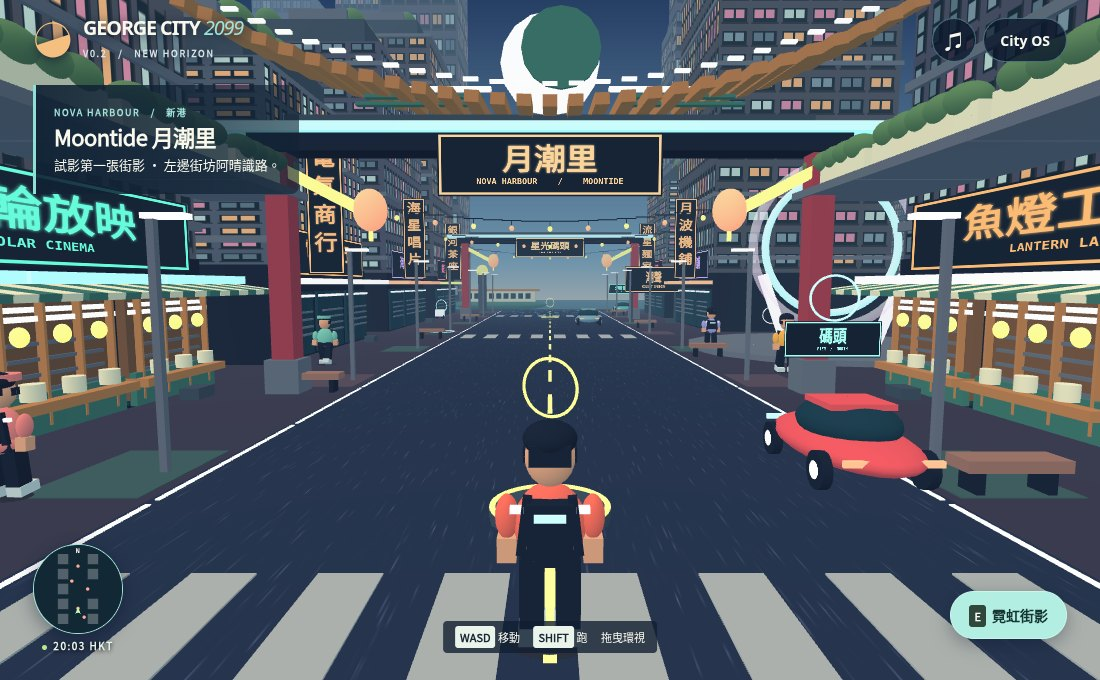
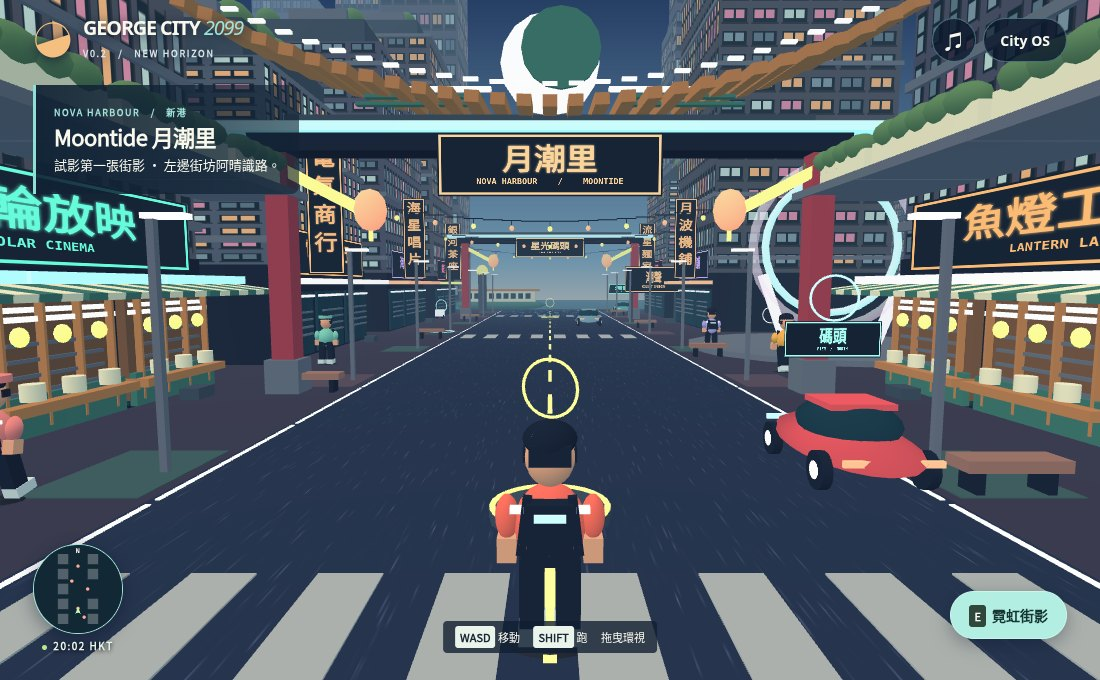
Instance moving props and trim tessellation after street profiling

diff --git a/src/view.ts b/src/view.ts
@@ -9,6 +9,7 @@ import {DynamicTexture} from '@babylonjs/core/Materials/Textures/dynamicTexture'
 import {MeshBuilder} from '@babylonjs/core/Meshes/meshBuilder'
 import {TransformNode} from '@babylonjs/core/Meshes/transformNode'
 import '@babylonjs/core/Meshes/thinInstanceMesh'
+import '@babylonjs/core/Meshes/instancedMesh'
 import '@babylonjs/core/Materials/Textures/Loaders/tgaTextureLoader'
 import {blocks, starts, sites, park, shop, garage} from './world'
 export {Vector3}
@@ -32,10 +33,10 @@ export function createView(canvas:HTMLCanvasElement){
  const ink=mat('#172338'),wall=mat('#344659'),ledge=mat('#586578'),glass=mat('#19384b'),cream=mat('#ffe0a7',true),pink=mat('#c66e54',true),mint=mat('#72dcd4',true),gold=mat('#ffae56',true),violet=mat('#ab85ff',true)
  const accents=[gold,mint,cream,pink]
  type Kind='box'|'sphere'|'tube'|'ring'
- function shape(kind:Kind,name:string){
-  if(kind==='sphere')return MeshBuilder.CreateSphere(name,{diameter:1,segments:10},scene)
+ function shape(kind:Kind,name:string,staticBatch=false){
+  if(kind==='sphere')return MeshBuilder.CreateSphere(name,{diameter:1,segments:staticBatch?4:8},scene)
   if(kind==='tube')return MeshBuilder.CreateCylinder(name,{height:1,diameter:1,tessellation:16},scene)
-  if(kind==='ring')return MeshBuilder.CreateTorus(name,{diameter:1,thickness:.055,tessellation:48},scene)
+  if(kind==='ring')return MeshBuilder.CreateTorus(name,{diameter:1,thickness:.055,tessellation:28},scene)
   return MeshBuilder.CreateBox(name,{size:1},scene)
  }
  const batches=new Map<string,{kind:Kind;m:StandardMaterial;values:number[]}>()
@@ -46,8 +47,17 @@ export function createView(canvas:HTMLCanvasElement){
   a.values.push(...Matrix.Compose(new Vector3(w,h,d),Quaternion.FromEulerAngles(rx,ry,rz),new Vector3(x,y,z)).asArray())
  }
  const box=(x:number,y:number,z:number,w:number,h:number,d:number,m:StandardMaterial)=>staticPart('box',x,y,z,w,h,d,m)
- function part(parent:TransformNode,kind:Kind,x:number,y:number,z:number,w:number,h:number,d:number,m:StandardMaterial){
-  const mesh=shape(kind,'detail');mesh.material=m;mesh.parent=parent;mesh.position.set(x,y,z);mesh.scaling.set(w,h,d);return mesh
+ // Moving rigid details share geometry and material; outfit pieces keep independent materials.
+ const sources=new Map<string,ReturnType<typeof shape>>()
+ function part(parent:TransformNode,kind:Kind,x:number,y:number,z:number,w:number,h:number,d:number,m:StandardMaterial,wearable=false){
+  const key=kind+m.uniqueId
+  let source=sources.get(key)
+  if(!source||wearable){
+   source=shape(kind,'detail');source.material=m
+   if(!wearable){source.isVisible=false;sources.set(key,source)}
+  }
+  const mesh=wearable?source:source.createInstance('detail instance')
+  mesh.parent=parent;mesh.position.set(x,y,z);mesh.scaling.set(w,h,d);return mesh
  }
  let seed=2099
  function random(){seed=(Math.imul(1664525,seed)+1013904223)>>>0;return seed/4294967296}
@@ -205,13 +215,13 @@ export function createView(canvas:HTMLCanvasElement){
  }
  for(const [p,s] of [[shop,'夜市裁縫'],[garage,'港灣車房']] as const){sign(p.x,2.7,p.z,3,1.1,s,'OPEN ALL NIGHT','#83ffe0')}
  for(const {kind,m,values} of batches.values()){
-  const mesh=shape(kind,'city');mesh.material=m;mesh.thinInstanceSetBuffer('matrix',new Float32Array(values),16,true);mesh.freezeWorldMatrix()
+  const mesh=shape(kind,'city',true);mesh.material=m;mesh.thinInstanceSetBuffer('matrix',new Float32Array(values),16,true);mesh.freezeWorldMatrix()
  }
  function person(color:string,variant=0){
   const root=new TransformNode('walker',scene),jacket=mat(color)
   part(root,'sphere',0,.025,0,.78,.032,.52,mat('#252c3a'))
   part(root,'box',0,.87,0,.5,.15,.34,ink)
-  const torso=part(root,'sphere',0,1.12,0,.64,.76,.42,jacket)
+  const torso=part(root,'sphere',0,1.12,0,.64,.76,.42,jacket,variant===0)
   root.scaling.setAll([1,.94,1.06,.98][variant%4]);
   if(variant%2)part(root,'tube',0,1.96,.045,.52,.11,.54,jacket)
   if(variant%3===1)part(root,'sphere',0,.91,0,.66,.36,.47,jacket)
@@ -225,7 +235,7 @@ export function createView(canvas:HTMLCanvasElement){
   for(const side of [-1,1])part(root,'box',side*.205,1.74,.045,.065,.12,.14,ink)
   const limbs=[-1,1].map(s=>{
    const leg=new TransformNode('hip',scene);leg.parent=root;leg.position.set(s*.16,.85,0);part(leg,'box',0,-.32,0,.22,.63,.25,ink);part(leg,'box',0,-.72,.06,.24,.17,.36,mat('#b7cbd0'))
-   const arm=new TransformNode('shoulder',scene);arm.parent=root;arm.position.set(s*.38,1.38,0);const sleeve=part(arm,'sphere',0,-.19,0,.21,.4,.24,jacket);part(arm,'box',0,-.47,0,.17,.22,.18,mat('#cd997f'))
+   const arm=new TransformNode('shoulder',scene);arm.parent=root;arm.position.set(s*.38,1.38,0);const sleeve=part(arm,'sphere',0,-.19,0,.21,.4,.24,jacket,variant===0);part(arm,'box',0,-.47,0,.17,.22,.18,mat('#cd997f'))
    return {leg,arm,sleeve}
   })
   let stride=0

diff --git a/docs/NEW-HORIZON.md b/docs/NEW-HORIZON.md
@@ -42,6 +42,15 @@ Fresh saves at the south gate, default camera, Chromium with SwiftShader. Moving
 
 The merged foundation at f81ca3d passed its main build. Its PR runner failed installing Playwright FFmpeg on Ubuntu 26.04. The V0.2 PR workflow pins Ubuntu 24.04. Local npm ci, eight simulation tests, strict TypeScript and the production Vite build passed.
 
-The main entry grew from 309.52 to 311.12 kB gzip. Vite still flags the Babylon entry chunk. The new street furniture, roof and ferry use the existing static instance batches. Four distinct authored residents replace eight walkers that repeated the same four identities. Adaptive resolution remains active. No physical device or hardware GPU measurements are available.
+The main entry grew from 309.52 to 311.23 kB gzip. Vite still flags the Babylon entry chunk. The new street furniture, roof and ferry use the existing static instance batches. Four distinct authored residents replace eight walkers that repeated the same four identities. Adaptive resolution remains active. No physical device or hardware GPU measurements are available.
 
-The local ID uses the fictional callsign Tidewalker and reads the current version-1 save. Motion preference is stored separately. Traffic remains decorative. Camera clearance covers building footprints; overhanging trim is visual geometry. Full race traversal and thermal behaviour on phones remain qualification gaps.
+The local ID uses the fictional callsign Tidewalker and reads the current version-1 save. Motion preference is stored separately. Traffic remains decorative. Camera clearance covers building footprints; overhanging trim is visual geometry. Physical touch comfort, hardware frame pacing and thermal behaviour on phones remain qualification gaps.
+
+
+### Gameplay qualification
+
+Production Chromium smoke coverage includes keyboard travel from spawn to the first postcard, mission resumption after reload, simultaneous touch joystick and drag-to-look input, all five mission completions, puzzle relays, the garage, first-clear rewards and outfit changes. The all-commission test seeds positions between objectives. An additional browser run started at the arcade entrance and drove the circuit continuously using throttle and steering keyboard events. It crossed all four required gates, returned to the street and awarded 150 credits. This verifies the route and reward with automated steering.
+
+All three viewport sessions opened City OS, inspected the local identity and started Neon Postcards. Screenshot review prompted a higher walking-camera sightline so the new gate roof reads from spawn and separate lamp, counter and mullion geometry so the tea-house windows have depth.
+
+Profiling first found a frame-time regression on SwiftShader. Moving parts now share Babylon mesh instances by shape and material, except the player’s recolourable outfit. At the same 416-pixel render-buffer width, a 45-frame spawn sample after 15 warm-up frames counted 303 median WebGL draw calls on the foundation and 88 after batching. The gate silhouette and small marker rings also use fewer segments. Draw-call counts describe renderer workload; software timings vary with host load.
